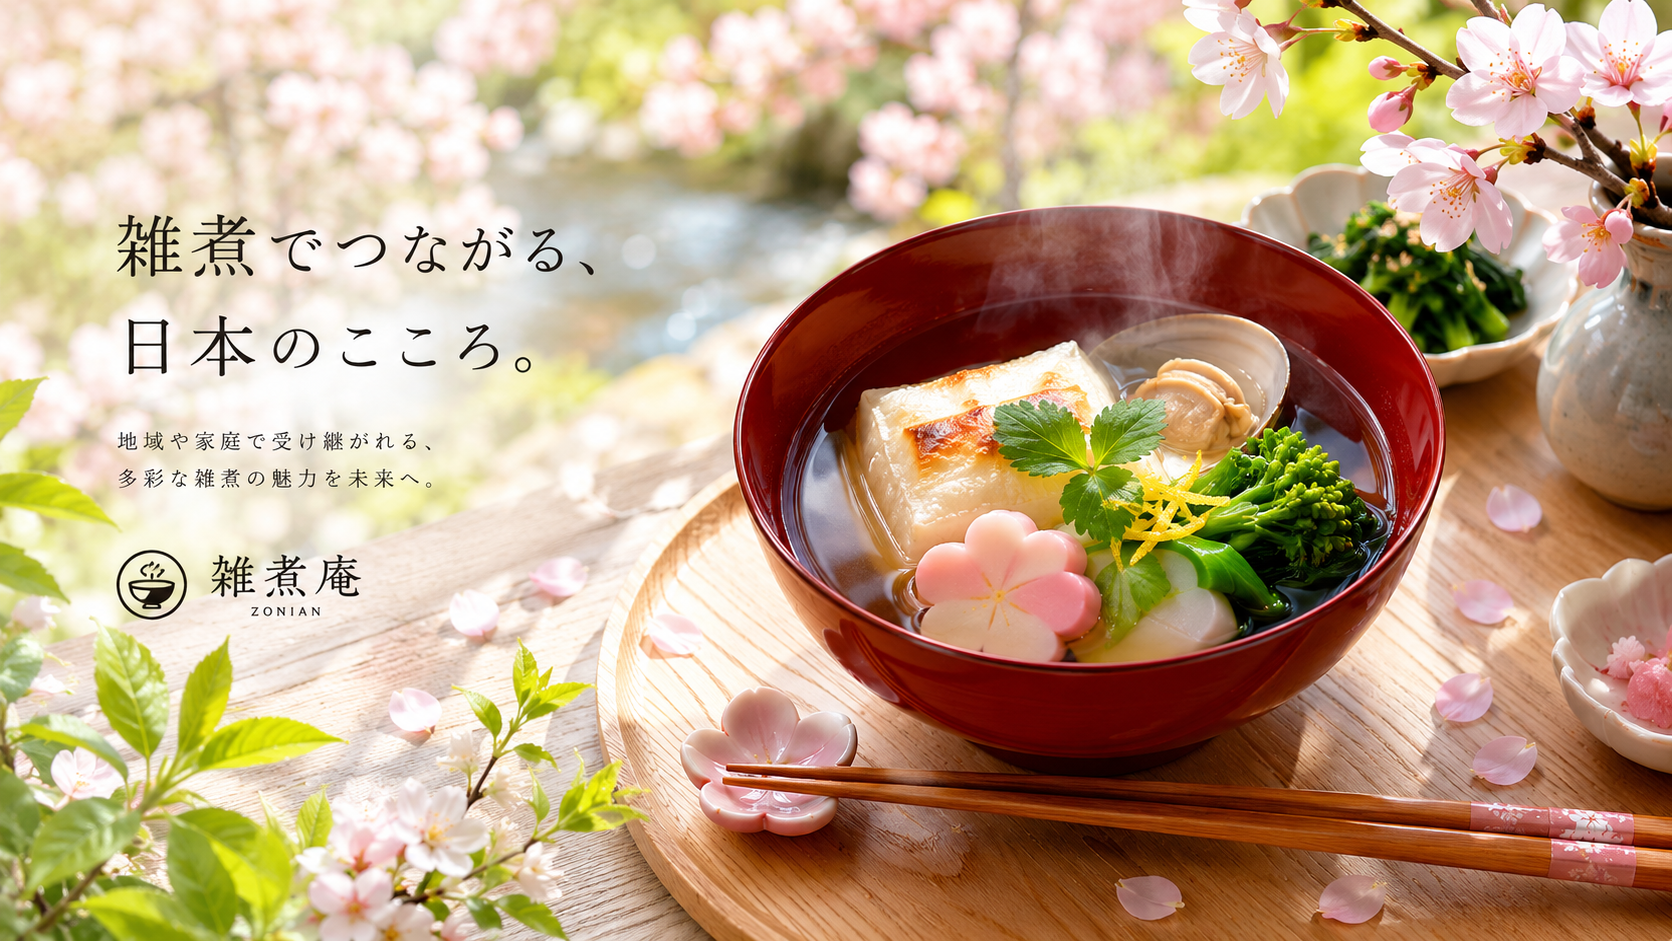
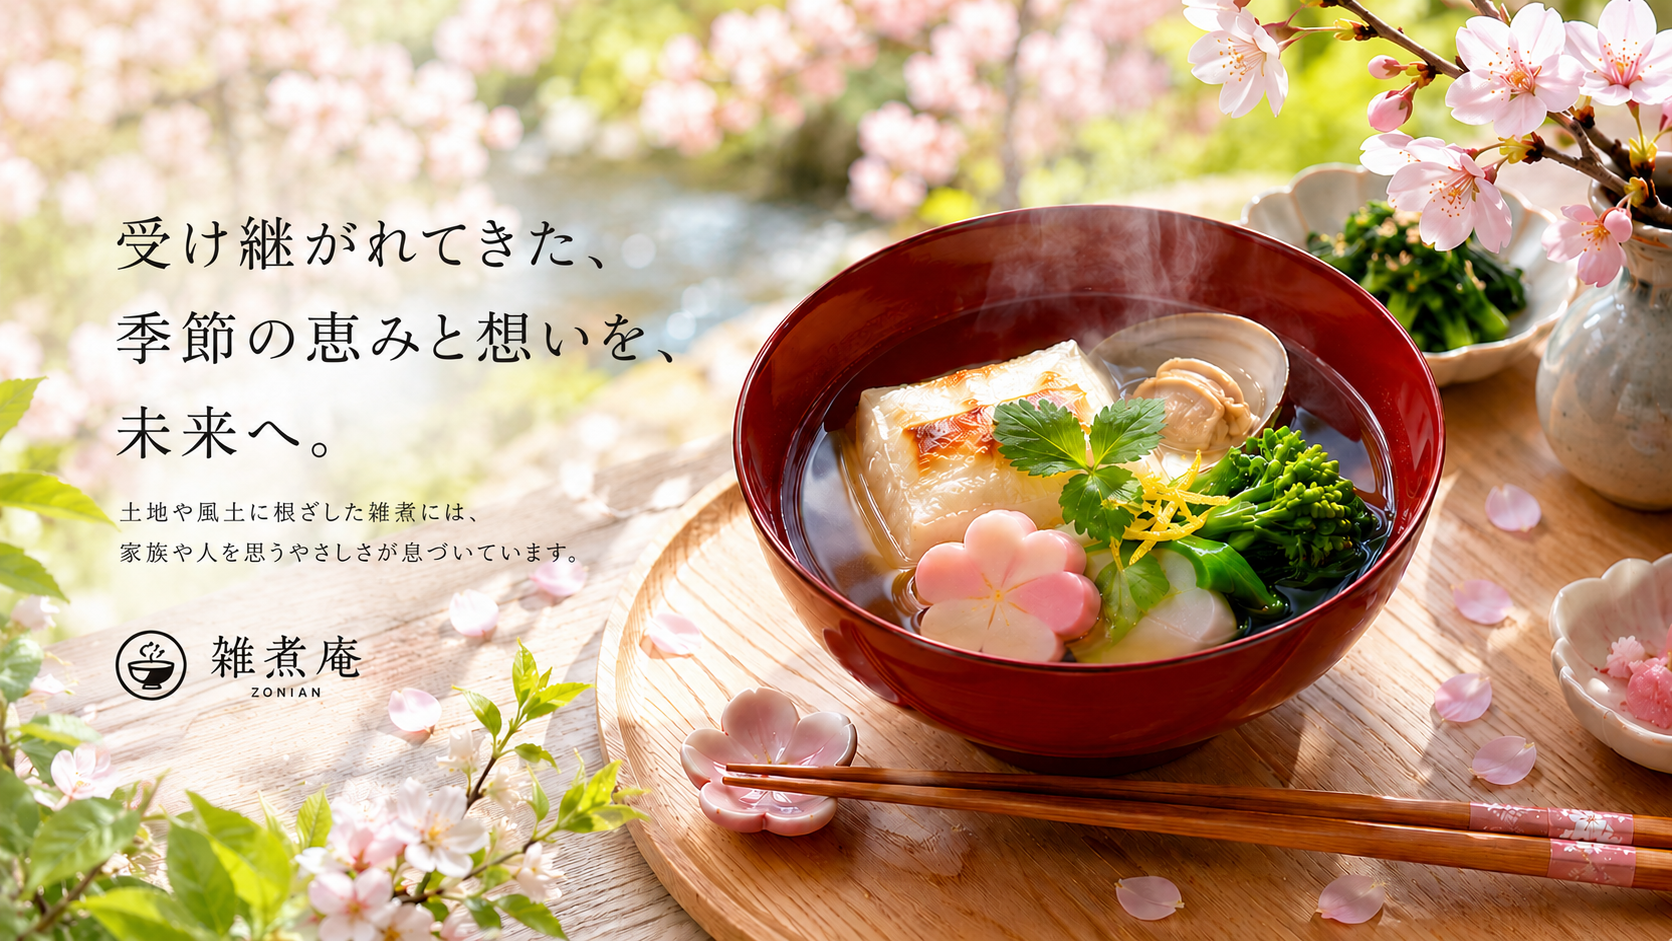
TOP修正

diff --git a/zounian-top/style.css b/zounian-top/style.css
@@ -348,7 +348,7 @@ button {
   content: "";
   position: absolute;
   inset: 0;
-  z-index: 2;
+  z-index: 3;
   pointer-events: none;
   border-radius: inherit;
   background:
@@ -364,7 +364,7 @@ button {
   content: "";
   position: absolute;
   inset: 0;
-  z-index: 3;
+  z-index: 4;
   pointer-events: none;
   border-radius: inherit;
   background:
@@ -392,21 +392,14 @@ button {
   border-radius: inherit;
 }
 
-.hero__image--current {
-  opacity: 1;
-  animation: heroFadePrimary 14s ease-in-out infinite;
-}
-
-.hero__image--seasonal {
+.hero__seasonal-layer {
   position: absolute;
   inset: 0;
+  z-index: 2;
+  border-radius: inherit;
+  background: center / cover no-repeat url("assets/zounian-hero-autumn.png");
   opacity: 0;
-  animation-name: heroFadeSeasonal;
-  height: 100%;
-}
-
-.hero__visual {
-  width: 100%;
+  animation: heroFadeSeasonal 14s ease-in-out infinite;
 }
 
 .hero__scroll {
@@ -430,22 +423,6 @@ button {
   height: 54px;
   background: rgba(35, 28, 24, 0.52);
   content: "";
-}
-
-@keyframes heroFadePrimary {
-  0%,
-  42% {
-    opacity: 1;
-  }
-
-  50%,
-  92% {
-    opacity: 0;
-  }
-
-  100% {
-    opacity: 1;
-  }
 }
 
 @keyframes heroFadeSeasonal {

diff --git a/zounian-top/index.html b/zounian-top/index.html
@@ -51,8 +51,8 @@
           </div>
         </div>
         <figure class="hero__visual">
-          <img class="hero__image hero__image--current" src="assets/hero-air-fade.png" alt="湯気の立つ雑煮">
-          <img class="hero__image hero__image--seasonal" src="assets/zounian-hero-autumn.png" alt="秋景色とともに楽しむ雑煮">
+          <img class="hero__image" src="assets/hero-air-fade.png" alt="湯気の立つ雑煮">
+          <span class="hero__seasonal-layer" aria-hidden="true"></span>
         </figure>
       </div>
     </section>
